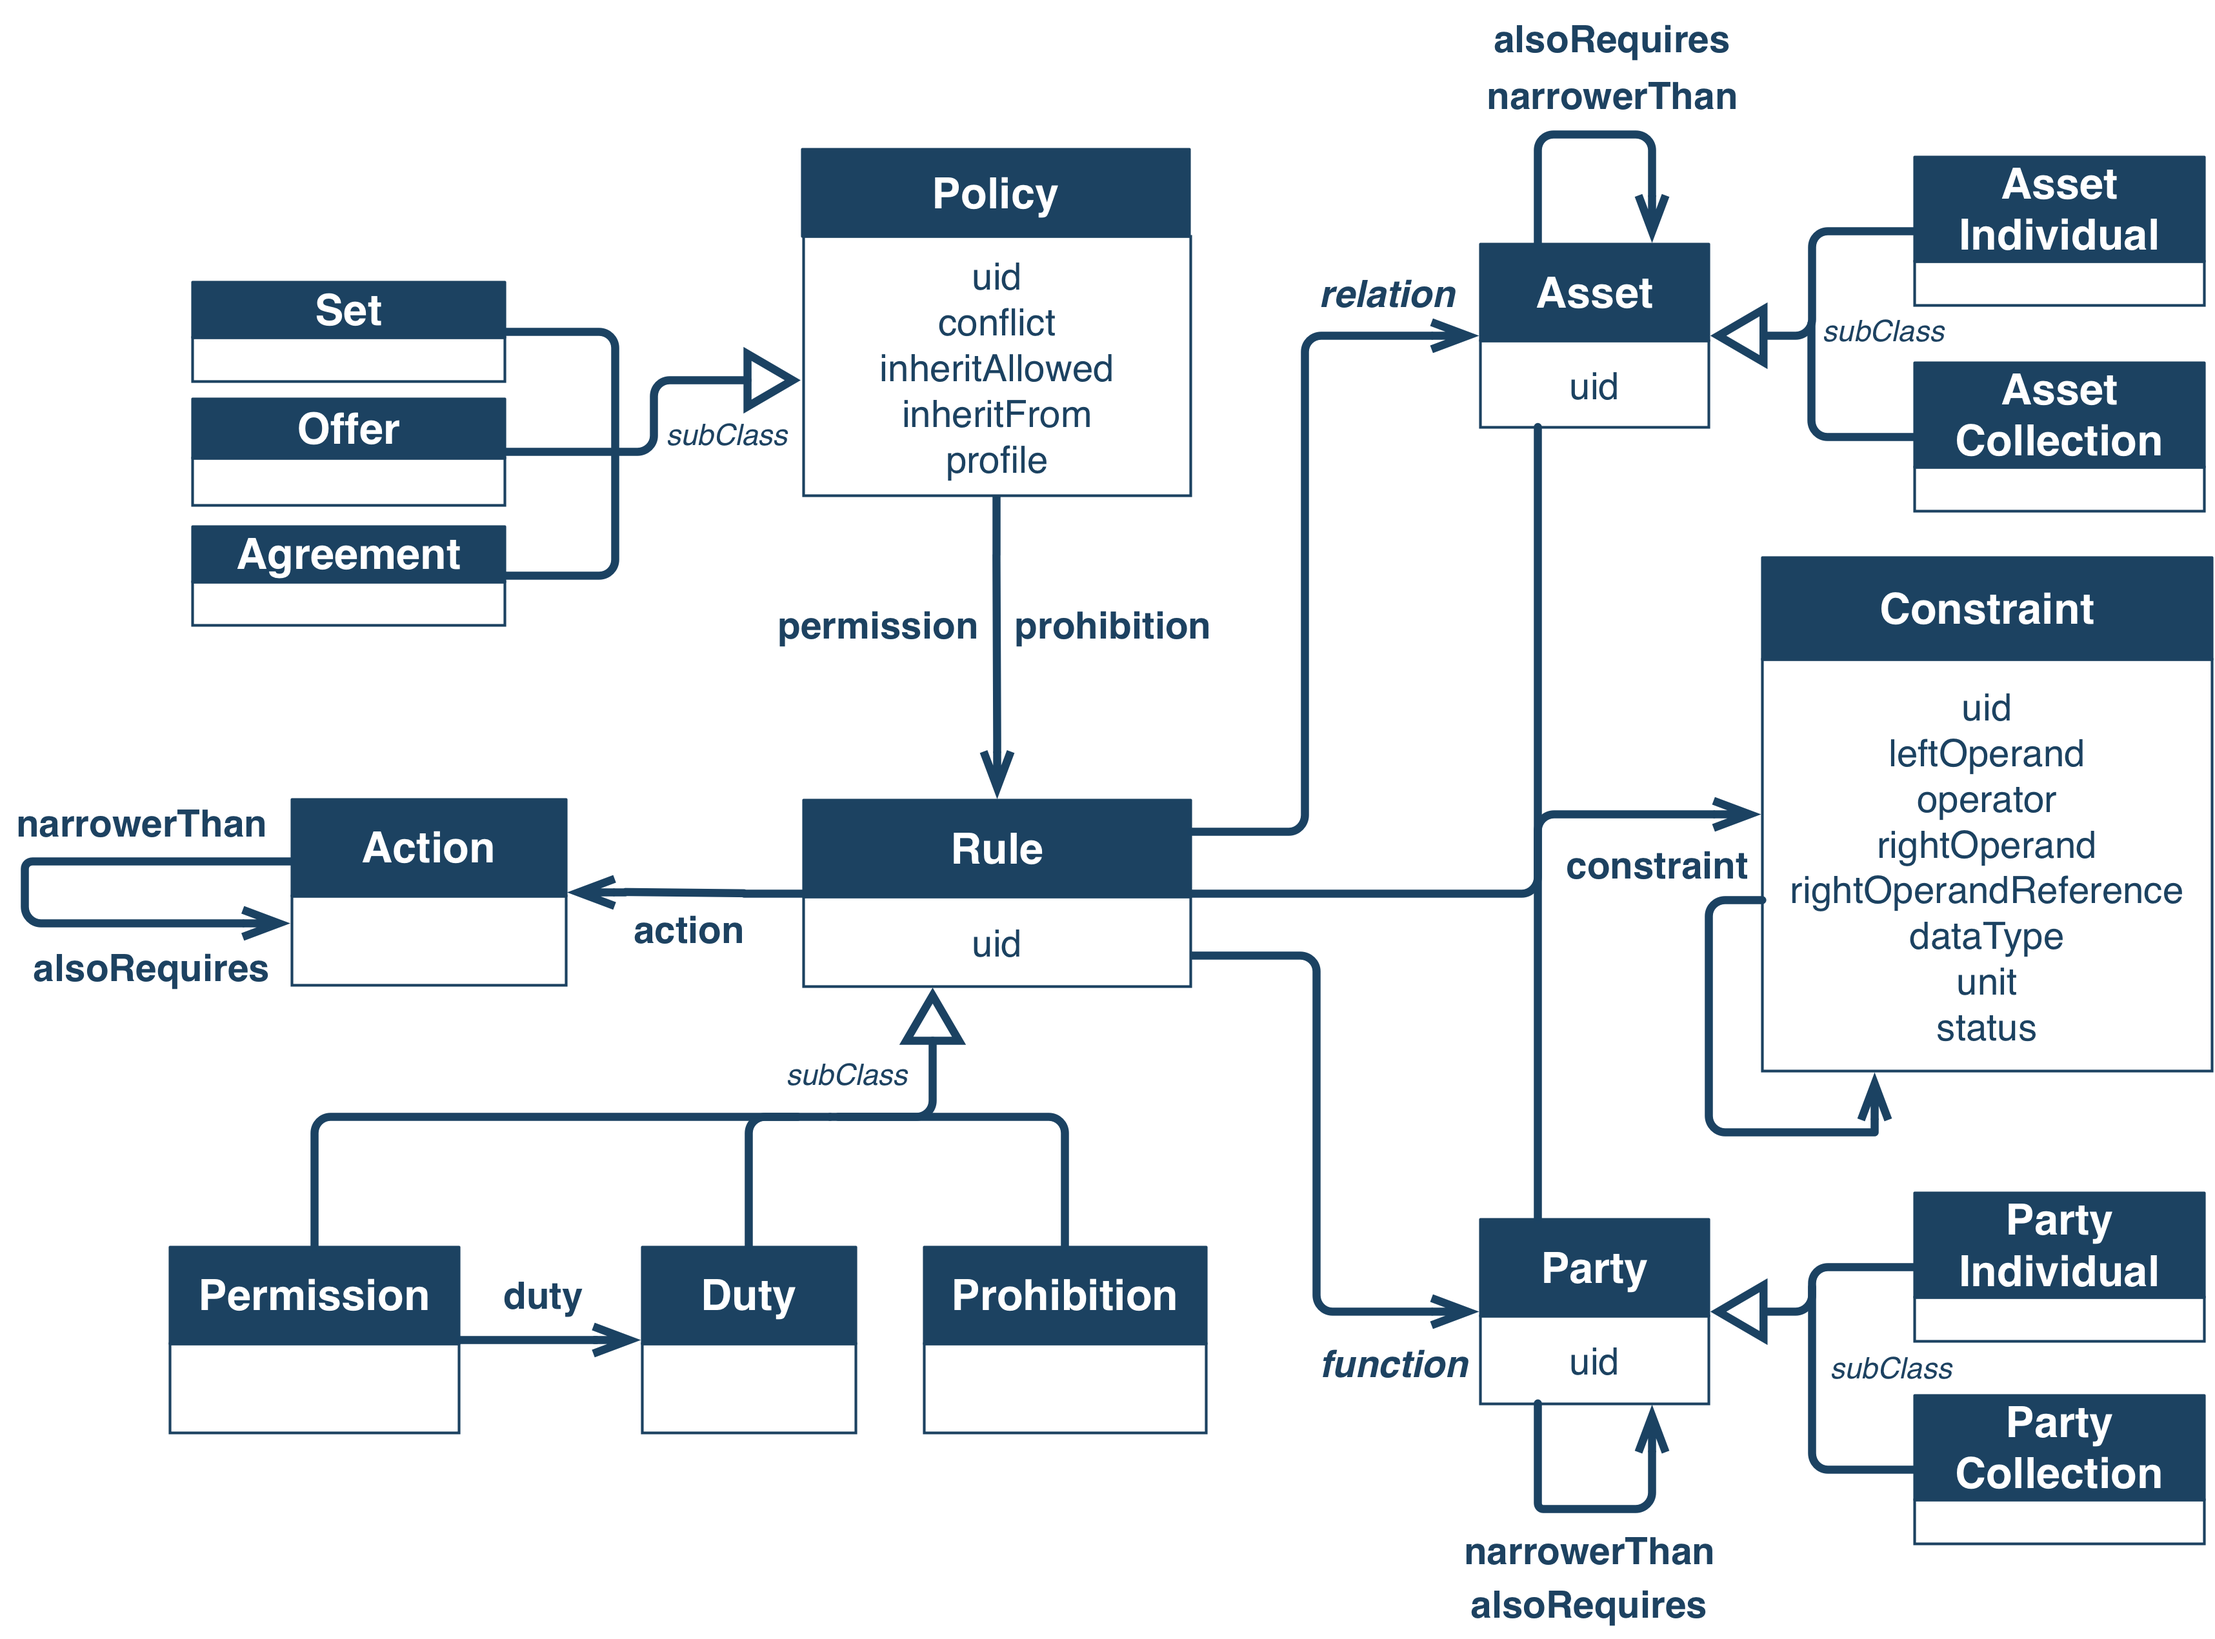
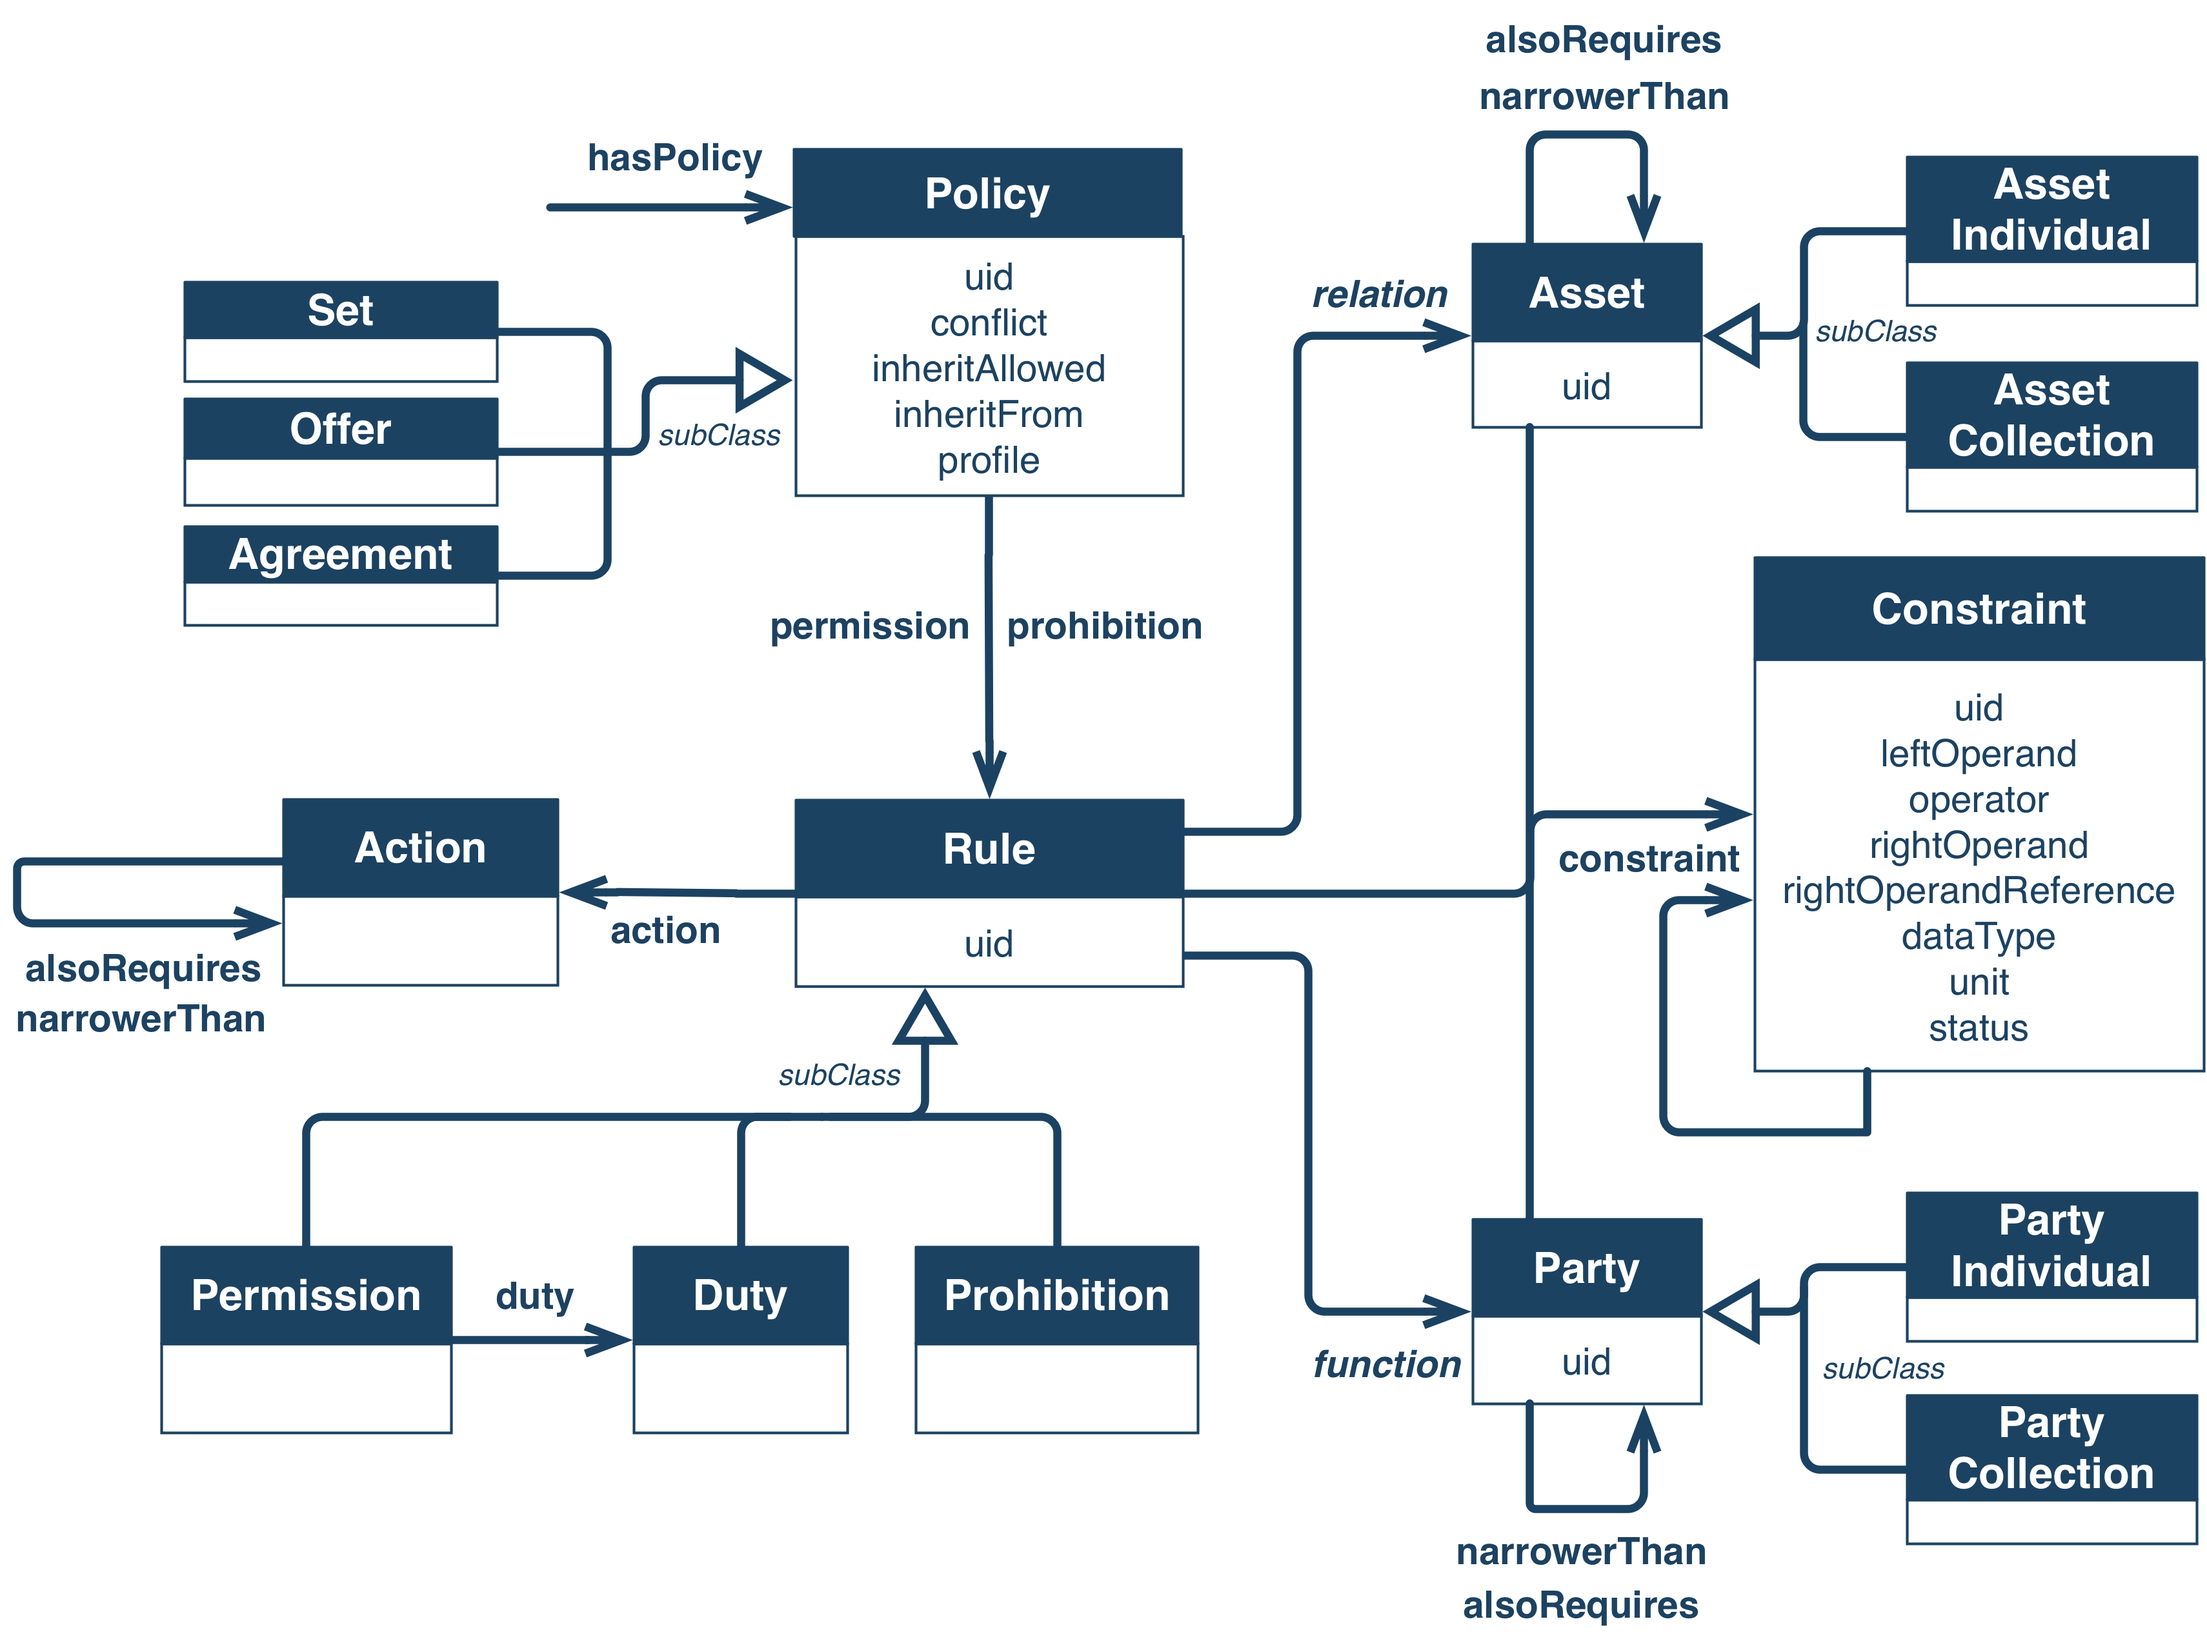
Added HasPolicy #184

diff --git a/model/index.html b/model/index.html
@@ -147,10 +147,10 @@
 <p>The Policy class has the following properties:</p>
 <ul>
 <li>A Policy MUST include the <code>uid</code> identification of the Policy.</li>
-<li>A Policy MUST include the <code>permission</code> and/or <code>prohibition</code> Rule.</li>  
-<li>A Policy MAY include the <code>conflict</code> property indicating how to handle Policy conflicts.(See <a href="#conflict">Policy Conflict Strategy</a> for more details.)</li>
-<li>A Policy MAY include the <code>inheritAllowed</code> property indicating a Policy can be inherited by other Policies. (See <a href="#inhertiance">Policy Inheritance</a> for more details.)</li>
-<li>A Policy MAY include the <code>profile</code> identifier of the ODRL Profile that this Policy conforms to. (See <a href="#profile">ODRL Profiles</a> for more details.)</li>
+<li>A Policy MUST include the <code>permission</code> and/or <code>prohibition</code> Rule.  (See the <a href="#permission">Permission</a> and  <a href="#prohibition">Prohibition</a> sections for more details.)</li>  
+<li>A Policy MAY include the <code>conflict</code> property indicating how to handle Policy conflicts.(See the <a href="#conflict">Policy Conflict Strategy</a> section for more details.)</li>
+<li>A Policy MAY include the <code>inheritAllowed</code> property indicating a Policy can be inherited by other Policies. (See the <a href="#inhertiance">Policy Inheritance</a> section for more details.)</li>
+<li>A Policy MAY include the <code>profile</code> identifier of the ODRL Profile that this Policy conforms to. (See the <a href="#profile">ODRL Profiles</a> section for more details.)</li>
 </ul>
 
 <p>An ODRL Policy MAY be subclasssed to more precisely describe the <em>context</em> of use of the Policy that MAY include additional constraints that ODRL processors MUST understand. The Policy subclasses may be documented in the ODRL Common Vocabulary [[!odrl-vocab]] or in ODRL Profiles. 
@@ -235,7 +235,7 @@
 {
     "@context": "http://www.w3.org/ns/odrl.jsonld",
     "@type": "Agreement",
-    "uid": "http://example.com/policy:1011",
+    "uid": "http://example.com/policy:1012",
     "permission": [{
         "target": "http://example.com/asset:9898.movie",
         "assigner": "http://example.com/party:org:abc",
@@ -246,7 +246,30 @@
 </pre>
 
 </section>
-    
+
+    <section id="policy-has">
+<h3>Has A Policy</h3> 
+<p>The Policy class MAY also be referenced by the <code>hasPolicy</code> property. This supports ODRL Policies being the object of external metadata expressions (that describe an Asset). When <code>hasPolicy</code> has been asserted between a metadata expression and an ODRL Policy, the Asset being described/identified is then assumed to be the target Asset of the Policy.</p>
+        
+<blockquote>
+<p>Example Use Case: The below snippet shows some Dublin Core metadata describing a movie Asset. The <code>odrl:hasPolicy</code> property has been included to link to the ODRL Policy <code>http://example.com/policy:1010</code> (this is the Set Policy described above). In this case, the Asset <code>http://example.com/asset:9999.movie</code> is now also the target Asset for the Policy <code>http://example.com/policy:1010</code>.</p>
+</blockquote>
+
+<pre class="example hljs json">
+{
+   ...
+   "dc:publisher": "ABC Pictures",
+   "dc:creator": "Allen, Woody",
+   "dc:issued": "2017",
+   "dc:subject": "Musical Comedy",
+   "dc:identifier": "http://example.com/asset:9999.movie",
+   "odrl:hasPolicy": "http://example.com/policy:1010",
+   ...
+}
+</pre>
+        
+    </section>
+        
     
 </section>
 
@@ -1438,6 +1461,8 @@ The ODRL Information Model was derived from the ODRL V2.1 Core Model Community G
      <li>More clearly defined the scope of ODRL Profiles (addition only) and added how to create them. <code><a href="https://github.com/w3c/poe/issues/173">(Issue#173)</a></code></li>
             
     <li>Added use and transfer as the top-level actions <code><a href="https://github.com/w3c/poe/issues/140">(Issue#140)</a></code></li>
+            
+    <li>Added hasPolicy property <code><a href="https://github.com/w3c/poe/issues/184">(Issue#184)</a></code></li>
     
     
 </ul>

diff --git a/vocab/index.html b/vocab/index.html
@@ -111,7 +111,7 @@
 <tr><th>Note:</th> <td>A Policy may contain multiple Rules.</td></tr>
 <tr><th>Sub-classes:</th> <td><a href="#term-Agreement">Agreement</a>, <a href="#term-Assertion">Assertion</a>, <a href="#term-Offer">Offer</a>, <a href="#term-Privacy">Privacy</a>, <a href="#term-Request">Request</a>, <a href="#term-Set">Set</a>, <a href="#term-Ticket">Ticket</a></td></tr>
 <tr><th>Properties:</th> <td><a href="#term-conflict">conflict</a>, <a href="#term-inheritAllowed">inheritAllowed</a>, <a href="#term-inheritFrom">inheritFrom</a>, <a href="#term-permission">permission</a>, <a href="#term-profile">profile</a>, <a href="#term-prohibition">prohibition</a></td></tr>
-<tr><th>In range of:</th> <td><a href="#term-inheritFrom">inheritFrom</a></td></tr>
+<tr><th>In range of:</th> <td><a href="#term-hasPolicy">hasPolicy</a>, <a href="#term-inheritFrom">inheritFrom</a></td></tr>
 </table>
 </section><section id="term-Rule"><h3>Rule</h3><table class='def propdef' >
 <tr><th>Definition:</th> <td>A Permission, Prohibition or Duty that expresses an Action that may, must not, or must be performed (respectively).</td></tr>
@@ -127,6 +127,13 @@
   <tr><th>Identifier:</th> <td><a href="http://www.w3.org/ns/odrl/2/profile">http://www.w3.org/ns/odrl/2/profile</a></td></tr>
 <tr><th>Note:</th> <td>ODRL Profiles may be defined by community groups and express additional semantics.</td></tr>
 <tr><th>Domain:</th> <td><a href="#term-Policy">Policy</a></td></tr>
+</table>
+</section><section id="term-hasPolicy"><h3>Has A Policy</h3><table class='def propdef' >
+<tr><th>Definition:</th> <td>Identifies an ODRL Policy from an Asset metadata expression.</td></tr>
+<tr><th>Label:</th> <td>Has A Policy</td></tr>
+  <tr><th>Identifier:</th> <td><a href="http://www.w3.org/ns/odrl/2/hasPolicy">http://www.w3.org/ns/odrl/2/hasPolicy</a></td></tr>
+<tr><th>Note:</th> <td>The Asset being described/identified is assumed to be the target Asset of the Policy.</td></tr>
+<tr><th>Range:</th> <td><a href="#term-Policy">Policy</a></td></tr>
 </table>
 </section></section><section id="policySubClasses"><h2>Policy Subclasses</h2><section id="term-Agreement"><h3>Agreement</h3><table class='def propdef' >
 <tr><th>Definition:</th> <td>A Policy that grants the assignee a Rule over an Asset from an assigner.</td></tr>
@@ -1638,6 +1645,11 @@ All new ODRL implementations are expected to use the deliverables of the W3C Per
      <li>Removed Scopes and replaced with Constraints on Asset and Party. <code><a href="https://github.com/w3c/poe/issues/183">(Issue#183)</a></code></li>
     
      <li>Split vocabulary into Core Vocabulary (normative) and Common Vocabulary (non-normative). <code><a href="https://github.com/w3c/poe/issues/182">(Issue#182)</a></code></li>
+    
+                
+    <li>Added hasPolicy property <code><a href="https://github.com/w3c/poe/issues/184">(Issue#184)</a></code></li>
+    
+    
 </ul></section>
         
 

diff --git a/vocab/parts/changes.html b/vocab/parts/changes.html
@@ -48,4 +48,9 @@
      <li>Removed Scopes and replaced with Constraints on Asset and Party. <code><a href="https://github.com/w3c/poe/issues/183">(Issue#183)</a></code></li>
     
      <li>Split vocabulary into Core Vocabulary (normative) and Common Vocabulary (non-normative). <code><a href="https://github.com/w3c/poe/issues/182">(Issue#182)</a></code></li>
+    
+                
+    <li>Added hasPolicy property <code><a href="https://github.com/w3c/poe/issues/184">(Issue#184)</a></code></li>
+    
+    
 </ul>

diff --git a/model/config.js b/model/config.js
@@ -1,7 +1,7 @@
 var respecConfig = {
         specStatus: "ED",
         shortName:  "odrl-model",
-        publishDate:          "2017-05-25",
+        publishDate:          "2017-05-29",
         editors: [
             {   name:       "Renato Iannella",
                     url:        "https://au.linkedin.com/in/riannella",

diff --git a/vocab/config.js b/vocab/config.js
@@ -1,7 +1,7 @@
 var respecConfig = {
     specStatus: "ED",
     shortName: "odrl-vocab",
-    publishDate:  "2017-05-26",
+    publishDate:  "2017-05-29",
     edDraftURI: "https://w3c.github.io/poe/vocab/",
     editors: [
      {    name:       "Renato Iannella",
